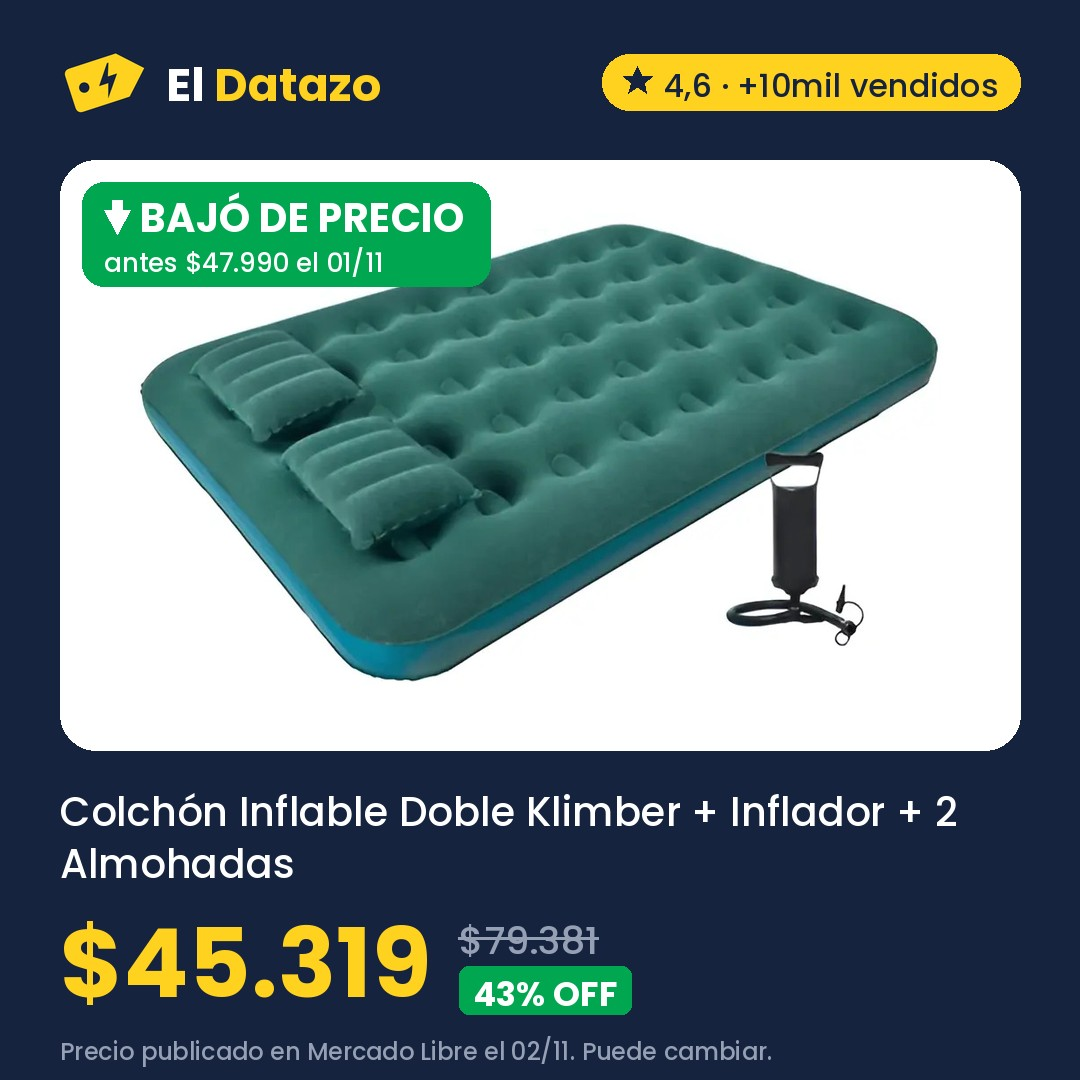
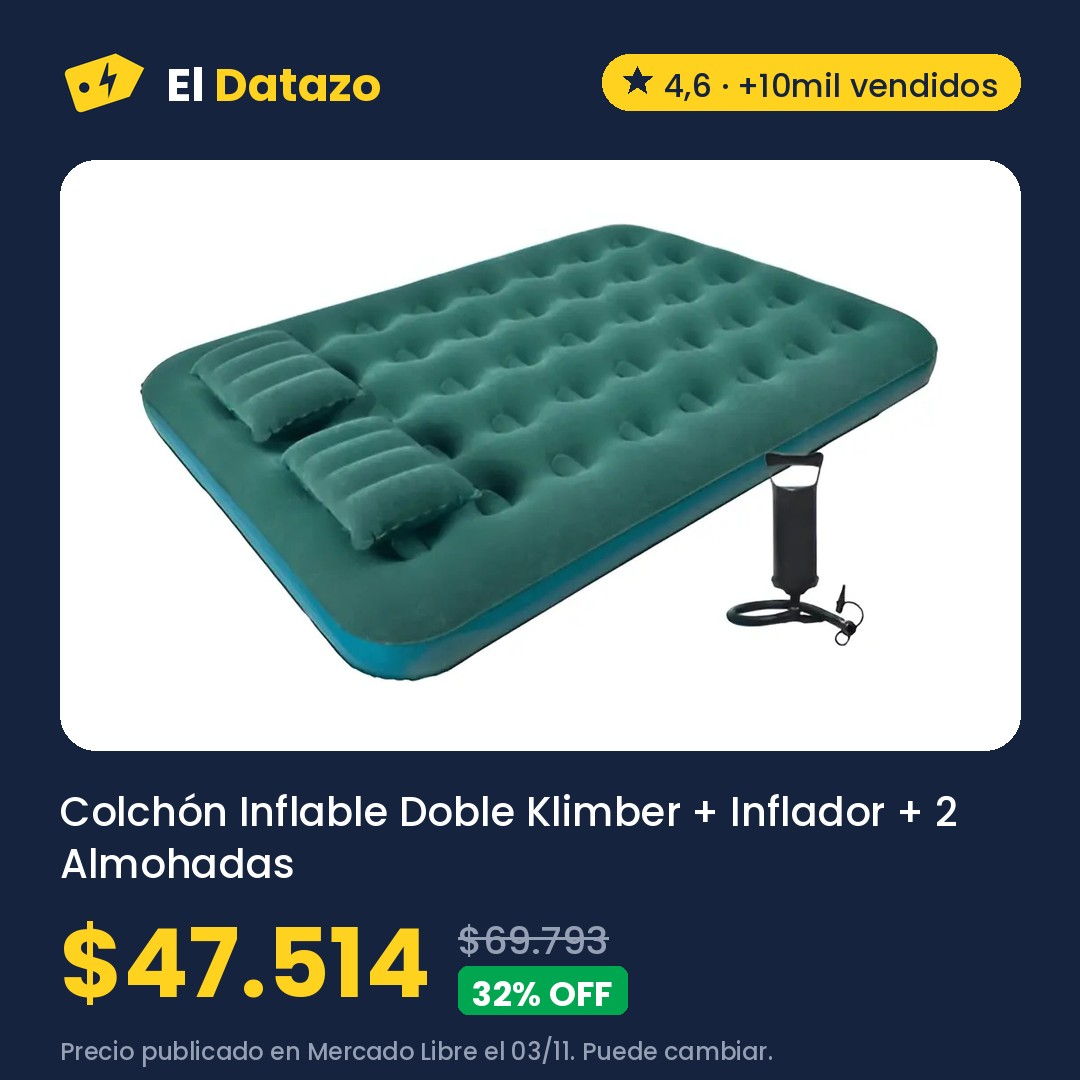
Ofertas 2026-11-03 23:31

diff --git a/index.html b/index.html
@@ -293,7 +293,7 @@ padding:3px 9px;border-radius:999px}
       <p class="hero-precio">$43.482</p>
       <p class="hero-antes"><s>$138.899</s> <span class="off">69% OFF</span></p>
       <p class="bajo pastilla"><b>⬇ Volvió y bajó</b> · Antes $46.899 el 02/11 · 7% menos</p>
-      <p class="nota">Precio del 02/11 en Mercado Libre, revisado hoy a las 16:31. Puede cambiar.</p>
+      <p class="nota">Precio del 02/11 en Mercado Libre, revisado hoy a las 20:31. Puede cambiar.</p>
       <a class="boton oscuro" href="https://meli.la/314C11i" rel="sponsored noopener" target="_blank"
          data-oferta="MLA47200126">Ver oferta en Mercado Libre</a>
       <a class="compartir" href="https://wa.me/?text=Mir%C3%A1%20este%20datazo%3A%20Extractor%20De%20Leche%20El%C3%A9ctrico%20Mawe%20By%20Gadnic%20RH-289%20150%20ml%209%20Niveles%20Pantalla%20LED%20Bater%C3%ADa%20Recargable%201200mAh%20a%20%2443.482%20https%3A//eldatazo.com.ar/%23MLA47200126" target="_blank" rel="noopener" data-estilo="texto"><svg viewBox="0 0 24 24" width="16" height="16" aria-hidden="true"><path d="M4 20l1.3-4A8 8 0 1 1 8 18.7L4 20z" fill="none" stroke="currentColor" stroke-width="2" stroke-linejoin="round"/></svg> Compartir por WhatsApp</a>
@@ -301,7 +301,7 @@ padding:3px 9px;border-radius:999px}
   </section>
       
   <section class="franja-bajo" aria-labelledby="bajo-titulo">
-    <h2 id="bajo-titulo">⬇ Bajaron de precio <span>23</span></h2>
+    <h2 id="bajo-titulo">⬇ Bajaron de precio <span>21</span></h2>
     <ul class="franja-lista">
         <li><a href="#MLA73800060"><img src="img/MLA73800060.jpg" alt="" loading="lazy">
           <span><b>Libro: Primero Yo, Después El Resto: 120 Sesiones De Verdad</b><span class="ahora">$17.000</span><s>$33.000</s> <span class="bajo">⬇ Bajó</span></span></a></li>
@@ -315,18 +315,18 @@ padding:3px 9px;border-radius:999px}
           <span><b>Extractor De Leche Eléctrico Mawe By Gadnic RH-289 150 ml 9 Niveles Pantalla LED Batería Recargable 1200mAh</b><span class="ahora">$43.482</span><s>$46.899</s> <span class="bajo">⬇ Volvió y bajó</span></span></a></li>
         <li><a href="#MLA23456165"><img src="img/MLA23456165.jpg" alt="" loading="lazy">
           <span><b>Silfab AL91 Almohadilla Eléctrica Espalda Large 41 X 28 Cm</b><span class="ahora">$46.932</span><s>$50.465</s> <span class="bajo">⬇ Volvió y bajó</span></span></a></li>
-        <li><a href="#MLA22764635"><img src="img/MLA22764635.jpg" alt="" loading="lazy">
-          <span><b>Colchón Inflable Doble Klimber + Inflador + 2 Almohadas</b><span class="ahora">$45.319</span><s>$47.990</s> <span class="bajo">⬇ Bajó</span></span></a></li>
         <li><a href="#MLA63186370"><img src="img/MLA63186370.jpg" alt="" loading="lazy">
           <span><b>Cámara Digital Kodak Charmera RK0601 Retro Compacta para Llavero y Video</b><span class="ahora">$54.454</span><s>$57.573</s> <span class="bajo">⬇ Bajó</span></span></a></li>
         <li><a href="#MLA43803009"><img src="img/MLA43803009.jpg" alt="" loading="lazy">
           <span><b>Mochila Viaje Carry On Avion Porta Notebook Waggs Negro Lisa</b><span class="ahora">$45.087</span><s>$46.799</s> <span class="bajo">⬇ Volvió y bajó</span></span></a></li>
-        <li><a href="#MLA69121337"><img src="img/MLA69121337.jpg" alt="" loading="lazy">
-          <span><b>Figuritas Panini X 25 Sobres World Cup 2026 Mundial 2026</b><span class="ahora">$40.593</span><s>$41.848</s> <span class="bajo">⬇ Volvió y bajó</span></span></a></li>
         <li><a href="#MLA26522167"><img src="img/MLA26522167.jpg" alt="" loading="lazy">
           <span><b>Equipo de Alta Frecuencia Gadnic LF60 Antienvejecimiento Antiacné Reafirmante Facial 4 Electrodos</b><span class="ahora">$42.441</span><s>$43.149</s> <span class="bajo">⬇ Volvió y bajó</span></span></a></li>
         <li><a href="#MLA16048275"><img src="img/MLA16048275.jpg" alt="" loading="lazy">
           <span><b>Eucerin Sun Oil Control Protector solar facial Toque Seco FPS 50 x 50 ml</b><span class="ahora">$35.318</span> <span class="bajo">⬇ Volvió</span></span></a></li>
+        <li><a href="#MLA22130330"><img src="img/MLA22130330.jpg" alt="" loading="lazy">
+          <span><b>Buclera de Pelo Gadnic B3000 Rizador 3 Tubos 25 mm 150W 180 210 C</b><span class="ahora">$44.463</span> <span class="bajo">⬇ Volvió</span></span></a></li>
+        <li><a href="#MLA28878536"><img src="img/MLA28878536.jpg" alt="" loading="lazy">
+          <span><b>BOTIQUÍN DE BAÑO TRENTO AMUBE 30x50 CM | Espejo y Repisa | Melamina Blanca</b><span class="ahora">$43.999</span> <span class="bajo">⬇ Volvió</span></span></a></li>
     </ul>
   </section>
       
@@ -346,28 +346,10 @@ padding:3px 9px;border-radius:999px}
             <option value="precio">Más baratas</option>
           </select></label>
       </div>
-      <div class="chips" role="group" aria-label="Rubro"><button type="button" data-filtro="" aria-pressed="true">Todo</button><button type="button" data-filtro="MLA1512" aria-pressed="false">Agro <span>3</span></button><button type="button" data-filtro="MLA1246" aria-pressed="false">Belleza y Cuidado Personal <span>3</span></button><button type="button" data-filtro="MLA1499" aria-pressed="false">Industrias y Oficinas <span>2</span></button><button type="button" data-filtro="MLA409431" aria-pressed="false">Salud y Equipamiento Médico <span>2</span></button><button type="button" data-filtro="MLA1144" aria-pressed="false">Consolas y Videojuegos <span>1</span></button><button type="button" data-filtro="MLA1500" aria-pressed="false">Construcción <span>1</span></button><button type="button" data-filtro="MLA1039" aria-pressed="false">Cámaras y Accesorios <span>1</span></button><button type="button" data-filtro="MLA1276" aria-pressed="false">Deportes y Fitness <span>1</span></button><button type="button" data-filtro="MLA1132" aria-pressed="false">Juegos y Juguetes <span>1</span></button><button type="button" data-filtro="MLA3025" aria-pressed="false">Libros, Revistas y Comics <span>1</span></button><button type="button" data-filtro="MLA1430" aria-pressed="false">Ropa y Accesorios <span>1</span></button></div>
-      <p class="contador" aria-live="polite"><span data-cuenta>17</span> ofertas</p>
+      <div class="chips" role="group" aria-label="Rubro"><button type="button" data-filtro="" aria-pressed="true">Todo</button><button type="button" data-filtro="MLA1512" aria-pressed="false">Agro <span>3</span></button><button type="button" data-filtro="MLA1246" aria-pressed="false">Belleza y Cuidado Personal <span>3</span></button><button type="button" data-filtro="MLA1499" aria-pressed="false">Industrias y Oficinas <span>2</span></button><button type="button" data-filtro="MLA409431" aria-pressed="false">Salud y Equipamiento Médico <span>2</span></button><button type="button" data-filtro="MLA1144" aria-pressed="false">Consolas y Videojuegos <span>1</span></button><button type="button" data-filtro="MLA1500" aria-pressed="false">Construcción <span>1</span></button><button type="button" data-filtro="MLA1039" aria-pressed="false">Cámaras y Accesorios <span>1</span></button><button type="button" data-filtro="MLA1276" aria-pressed="false">Deportes y Fitness <span>1</span></button><button type="button" data-filtro="MLA3025" aria-pressed="false">Libros, Revistas y Comics <span>1</span></button><button type="button" data-filtro="MLA1430" aria-pressed="false">Ropa y Accesorios <span>1</span></button></div>
+      <p class="contador" aria-live="polite"><span data-cuenta>16</span> ofertas</p>
     </div>
     <div class="grilla activas">
-      <article class="tarjeta destacada" id="MLA69121337" data-rubro="MLA1132" data-off="3" data-pub="2026-11-03" data-quedan="7" data-precio="40592" data-bajo="4" data-texto="figuritas panini x 25 sobres world cup 2026 mundial 2026">
-        <div class="tarjeta-foto">
-          <img src="img/MLA69121337.jpg" alt="Figuritas Panini X 25 Sobres World Cup 2026 Mundial 2026" loading="lazy" width="1080" height="1080">
-        </div>
-        <div class="cuerpo">
-          <div class="fila"><span class="sello baja">⬇ Volvió y bajó</span><span class="sello">Quedan 7 días</span><span class="rubro">Juegos y Juguetes</span></div>
-          <h3>Figuritas Panini X 25 Sobres World Cup 2026 Mundial 2026</h3>
-          <p class="precios "><span class="precio">$40.593</span><s class="antes">$41.848</s><span class="off">3% OFF</span></p>
-          <p class="bajo">Antes $41.848 el 30/10 · 3% menos</p>
-          <p class="nota">Precio de hoy a las 16:31 en Mercado Libre. Puede cambiar.</p>
-          <div class="acciones">
-            <a class="boton" href="https://meli.la/1qNpAcw" rel="sponsored noopener" target="_blank"
-               data-oferta="MLA69121337">Ver oferta</a>
-            <a class="compartir" href="https://wa.me/?text=Mir%C3%A1%20este%20datazo%3A%20Figuritas%20Panini%20X%2025%20Sobres%20World%20Cup%202026%20Mundial%202026%20a%20%2440.593%20https%3A//eldatazo.com.ar/%23MLA69121337" target="_blank" rel="noopener"
-               aria-label="Compartir por WhatsApp" title="Compartir por WhatsApp"><svg viewBox="0 0 24 24" width="16" height="16" aria-hidden="true"><path d="M4 20l1.3-4A8 8 0 1 1 8 18.7L4 20z" fill="none" stroke="currentColor" stroke-width="2" stroke-linejoin="round"/></svg></a>
-          </div>
-        </div>
-      </article>
       <article class="tarjeta destacada" id="MLA16048275" data-rubro="MLA1246" data-off="53" data-pub="2026-11-02" data-quedan="6" data-precio="35318" data-bajo="1" data-texto="eucerin sun oil control protector solar facial toque seco fps 50 x 50 ml">
         <div class="tarjeta-foto">
           <img src="img/MLA16048275.jpg" alt="Eucerin Sun Oil Control Protector solar facial Toque Seco FPS 50 x 50 ml" loading="lazy" width="1080" height="1080">
@@ -377,7 +359,7 @@ padding:3px 9px;border-radius:999px}
           <h3>Eucerin Sun Oil Control Protector solar facial Toque Seco FPS 50 x 50 ml</h3>
           <p class="precios "><span class="precio">$35.318</span><s class="antes">$75.301</s><span class="off">53% OFF</span></p>
           <p class="bajo">Había terminado y volvió al mismo precio</p>
-          <p class="nota">Precio del 02/11 en Mercado Libre, revisado hoy a las 16:31. Puede cambiar.</p>
+          <p class="nota">Precio del 02/11 en Mercado Libre, revisado hoy a las 20:31. Puede cambiar.</p>
           <div class="acciones">
             <a class="boton" href="https://meli.la/2Zpeewk" rel="sponsored noopener" target="_blank"
                data-oferta="MLA16048275">Ver oferta</a>
@@ -395,7 +377,7 @@ padding:3px 9px;border-radius:999px}
           <h3>Yelmo As-3240 Aspiradora Para Auto Recargable Usb Color Gris</h3>
           <p class="precios "><span class="precio">$32.899</span><s class="antes">$59.899</s><span class="off">45% OFF</span></p>
           <p class="bajo">Antes $36.567 el 02/11 · 10% menos</p>
-          <p class="nota">Precio de hoy a las 16:31 en Mercado Libre. Puede cambiar.</p>
+          <p class="nota">Precio de hoy a las 20:31 en Mercado Libre. Puede cambiar.</p>
           <div class="acciones">
             <a class="boton" href="https://meli.la/1BA5g6k" rel="sponsored noopener" target="_blank"
                data-oferta="MLA19719361">Ver oferta</a>
@@ -413,7 +395,7 @@ padding:3px 9px;border-radius:999px}
           <h3>Buclera de Pelo Gadnic B3000 Rizador 3 Tubos 25 mm 150W 180 210 C</h3>
           <p class="precios "><span class="precio">$44.463</span><s class="antes">$100.099</s><span class="off">56% OFF</span></p>
           <p class="bajo">Había terminado y volvió al mismo precio</p>
-          <p class="nota">Precio de hoy a las 16:31 en Mercado Libre. Puede cambiar.</p>
+          <p class="nota">Precio de hoy a las 20:31 en Mercado Libre. Puede cambiar.</p>
           <div class="acciones">
             <a class="boton" href="https://meli.la/1HyqnAD" rel="sponsored noopener" target="_blank"
                data-oferta="MLA22130330">Ver oferta</a>
@@ -431,7 +413,7 @@ padding:3px 9px;border-radius:999px}
           <h3>Crique Hidraulico Carrito Gato Para Autos 2 Tn Mejor Calidad</h3>
           <p class="precios "><span class="precio">$47.890</span><s class="antes">$58.014</s><span class="off">17% OFF</span></p>
           <p class="bajo">Antes $54.533 el 01/11 · 12% menos</p>
-          <p class="nota">Precio del 02/11 en Mercado Libre, revisado hoy a las 16:31. Puede cambiar.</p>
+          <p class="nota">Precio del 02/11 en Mercado Libre, revisado hoy a las 20:31. Puede cambiar.</p>
           <div class="acciones">
             <a class="boton" href="https://meli.la/2ZwvMNb" rel="sponsored noopener" target="_blank"
                data-oferta="MLA24729106">Ver oferta</a>
@@ -449,7 +431,7 @@ padding:3px 9px;border-radius:999px}
           <h3>Equipo de Alta Frecuencia Gadnic LF60 Antienvejecimiento Antiacné Reafirmante Facial 4 Electrodos</h3>
           <p class="precios "><span class="precio">$42.441</span><s class="antes">$90.999</s><span class="off">53% OFF</span></p>
           <p class="bajo">Antes $43.149 el 28/10 · 2% menos</p>
-          <p class="nota">Precio del 02/11 en Mercado Libre, revisado hoy a las 16:31. Puede cambiar.</p>
+          <p class="nota">Precio del 02/11 en Mercado Libre, revisado hoy a las 20:31. Puede cambiar.</p>
           <div class="acciones">
             <a class="boton" href="https://meli.la/1guS1ep" rel="sponsored noopener" target="_blank"
                data-oferta="MLA26522167">Ver oferta</a>
@@ -467,7 +449,7 @@ padding:3px 9px;border-radius:999px}
           <h3>BOTIQUÍN DE BAÑO TRENTO AMUBE 30x50 CM | Espejo y Repisa | Melamina Blanca</h3>
           <p class="precios "><span class="precio">$43.999</span><s class="antes">$45.394</s><span class="off">3% OFF</span></p>
           <p class="bajo">Había terminado y volvió al mismo precio</p>
-          <p class="nota">Precio de hoy a las 16:31 en Mercado Libre. Puede cambiar.</p>
+          <p class="nota">Precio de hoy a las 20:31 en Mercado Libre. Puede cambiar.</p>
           <div class="acciones">
             <a class="boton" href="https://meli.la/2PKMfSp" rel="sponsored noopener" target="_blank"
                data-oferta="MLA28878536">Ver oferta</a>
@@ -485,7 +467,7 @@ padding:3px 9px;border-radius:999px}
           <h3>Mochila Viaje Carry On Avion Porta Notebook Waggs Negro Lisa</h3>
           <p class="precios "><span class="precio">$45.087</span><s class="antes">$96.758</s><span class="off">53% OFF</span></p>
           <p class="bajo">Antes $46.799 el 28/10 · 4% menos</p>
-          <p class="nota">Precio del 02/11 en Mercado Libre, revisado hoy a las 16:31. Puede cambiar.</p>
+          <p class="nota">Precio del 02/11 en Mercado Libre, revisado hoy a las 20:31. Puede cambiar.</p>
           <div class="acciones">
             <a class="boton" href="https://meli.la/1Y9GX65" rel="sponsored noopener" target="_blank"
                data-oferta="MLA43803009">Ver oferta</a>
@@ -503,7 +485,7 @@ padding:3px 9px;border-radius:999px}
           <h3>Libro: Primero Yo, Después El Resto: 120 Sesiones De Verdad</h3>
           <p class="precios "><span class="precio">$17.000</span></p>
           <p class="bajo">Antes $33.000 el 01/11 · 48% menos</p>
-          <p class="nota">Precio del 02/11 en Mercado Libre, revisado hoy a las 16:31. Puede cambiar.</p>
+          <p class="nota">Precio del 02/11 en Mercado Libre, revisado hoy a las 20:31. Puede cambiar.</p>
           <div class="acciones">
             <a class="boton" href="https://meli.la/2DQxPNs" rel="sponsored noopener" target="_blank"
                data-oferta="MLA73800060">Ver oferta</a>
@@ -521,7 +503,7 @@ padding:3px 9px;border-radius:999px}
           <h3>God Of War Ragnarok Ps4 Juego Físico Nuevo Sony Original</h3>
           <p class="precios "><span class="precio">$69.999</span><s class="antes">$149.999</s><span class="off">53% OFF</span></p>
           <p class="bajo">Antes $75.999 el 01/11 · 8% menos</p>
-          <p class="nota">Precio de hoy a las 16:31 en Mercado Libre. Puede cambiar.</p>
+          <p class="nota">Precio de hoy a las 20:31 en Mercado Libre. Puede cambiar.</p>
           <div class="acciones">
             <a class="boton" href="https://meli.la/217QPCu" rel="sponsored noopener" target="_blank"
                data-oferta="MLA19472094">Ver oferta</a>
@@ -539,7 +521,7 @@ padding:3px 9px;border-radius:999px}
           <h3>Silfab AL91 Almohadilla Eléctrica Espalda Large 41 X 28 Cm</h3>
           <p class="precios "><span class="precio">$46.932</span><s class="antes">$52.990</s><span class="off">11% OFF</span></p>
           <p class="bajo">Antes $50.465 el 24/10 · 7% menos</p>
-          <p class="nota">Precio del 02/11 en Mercado Libre, revisado hoy a las 16:31. Puede cambiar.</p>
+          <p class="nota">Precio del 02/11 en Mercado Libre, revisado hoy a las 20:31. Puede cambiar.</p>
           <div class="acciones">
             <a class="boton" href="https://meli.la/2cQdCWW" rel="sponsored noopener" target="_blank"
                data-oferta="MLA23456165">Ver oferta</a>
@@ -548,20 +530,20 @@ padding:3px 9px;border-radius:999px}
           </div>
         </div>
       </article>
-      <article class="tarjeta destacada" id="MLA26204453" data-rubro="MLA1512" data-off="16" data-pub="2026-11-01" data-quedan="5" data-precio="71982" data-bajo="1" data-texto="bomba desagote agua sucia vasser de 400ps 400 watts">
+      <article class="tarjeta destacada" id="MLA26204453" data-rubro="MLA1512" data-off="19" data-pub="2026-11-01" data-quedan="5" data-precio="68905" data-bajo="1" data-texto="bomba desagote agua sucia vasser de 400ps 400 watts">
         <div class="tarjeta-foto">
           <img src="img/MLA26204453.jpg" alt="Bomba Desagote Agua Sucia Vasser De 400ps 400 Watts" loading="lazy" width="1080" height="1080">
         </div>
         <div class="cuerpo">
           <div class="fila"><span class="sello baja">⬇ Volvió</span><span class="sello">Quedan 5 días</span><span class="rubro">Agro</span></div>
           <h3>Bomba Desagote Agua Sucia Vasser De 400ps 400 Watts</h3>
-          <p class="precios "><span class="precio">$71.982</span><s class="antes">$85.441</s><span class="off">16% OFF</span></p>
+          <p class="precios "><span class="precio">$68.905</span><s class="antes">$85.441</s><span class="off">19% OFF</span></p>
           <p class="bajo">Había terminado y volvió al mismo precio</p>
-          <p class="nota">Precio de hoy a las 16:31 en Mercado Libre. Puede cambiar.</p>
+          <p class="nota">Precio de hoy a las 20:31 en Mercado Libre. Puede cambiar.</p>
           <div class="acciones">
             <a class="boton" href="https://meli.la/19GEcXU" rel="sponsored noopener" target="_blank"
                data-oferta="MLA26204453">Ver oferta</a>
-            <a class="compartir" href="https://wa.me/?text=Mir%C3%A1%20este%20datazo%3A%20Bomba%20Desagote%20Agua%20Sucia%20Vasser%20De%20400ps%20400%20Watts%20a%20%2471.982%20https%3A//eldatazo.com.ar/%23MLA26204453" target="_blank" rel="noopener"
+            <a class="compartir" href="https://wa.me/?text=Mir%C3%A1%20este%20datazo%3A%20Bomba%20Desagote%20Agua%20Sucia%20Vasser%20De%20400ps%20400%20Watts%20a%20%2468.905%20https%3A//eldatazo.com.ar/%23MLA26204453" target="_blank" rel="noopener"
                aria-label="Compartir por WhatsApp" title="Compartir por WhatsApp"><svg viewBox="0 0 24 24" width="16" height="16" aria-hidden="true"><path d="M4 20l1.3-4A8 8 0 1 1 8 18.7L4 20z" fill="none" stroke="currentColor" stroke-width="2" stroke-linejoin="round"/></svg></a>
           </div>
         </div>
@@ -575,7 +557,7 @@ padding:3px 9px;border-radius:999px}
           <h3>Taladro Percutor Total Mandril 13mm 710w Tg107136 Color Turquesa Frecuencia 50 Hz x 60 Hz</h3>
           <p class="precios "><span class="precio">$70.220</span></p>
           
-          <p class="nota">Precio del 01/11 en Mercado Libre, revisado hoy a las 16:31. Puede cambiar.</p>
+          <p class="nota">Precio del 01/11 en Mercado Libre, revisado hoy a las 20:31. Puede cambiar.</p>
           <div class="acciones">
             <a class="boton" href="https://meli.la/2dUz2s5" rel="sponsored noopener" target="_blank"
                data-oferta="MLA29532448">Ver oferta</a>
@@ -593,7 +575,7 @@ padding:3px 9px;border-radius:999px}
           <h3>Cámara Digital Kodak Charmera RK0601 Retro Compacta para Llavero y Video</h3>
           <p class="precios "><span class="precio">$54.454</span><s class="antes">$80.000</s><span class="off">32% OFF</span></p>
           <p class="bajo">Antes $57.573 el 01/11 · 5% menos</p>
-          <p class="nota">Precio del 02/11 en Mercado Libre, revisado hoy a las 16:31. Puede cambiar.</p>
+          <p class="nota">Precio del 02/11 en Mercado Libre, revisado hoy a las 20:31. Puede cambiar.</p>
           <div class="acciones">
             <a class="boton" href="https://meli.la/2QAJKif" rel="sponsored noopener" target="_blank"
                data-oferta="MLA63186370">Ver oferta</a>
@@ -611,7 +593,7 @@ padding:3px 9px;border-radius:999px}
           <h3>Tensiometro Digital Brazo Bluetooth Presion Arterial Aparato Para Tomar Presion Batería Recargable Usb Medidor Automatico Femmto KF-DT65S</h3>
           <p class="precios "><span class="precio">$29.301</span><s class="antes">$50.000</s><span class="off">41% OFF</span></p>
           <p class="bajo">Había terminado y volvió al mismo precio</p>
-          <p class="nota">Precio de hoy a las 16:31 en Mercado Libre. Puede cambiar.</p>
+          <p class="nota">Precio de hoy a las 20:31 en Mercado Libre. Puede cambiar.</p>
           <div class="acciones">
             <a class="boton" href="https://meli.la/2V53bXq" rel="sponsored noopener" target="_blank"
                data-oferta="MLA76118504">Ver oferta</a>
@@ -620,20 +602,20 @@ padding:3px 9px;border-radius:999px}
           </div>
         </div>
       </article>
-      <article class="tarjeta destacada" id="MLA22764635" data-rubro="MLA1276" data-off="43" data-pub="2026-10-26" data-quedan="6" data-precio="45319" data-bajo="7" data-texto="colchón inflable doble klimber + inflador + 2 almohadas">
+      <article class="tarjeta" id="MLA22764635" data-rubro="MLA1276" data-off="32" data-pub="2026-10-26" data-quedan="6" data-precio="47514" data-bajo="0" data-texto="colchón inflable doble klimber + inflador + 2 almohadas">
         <div class="tarjeta-foto">
           <img src="img/MLA22764635.jpg" alt="Colchón Inflable Doble Klimber + Inflador + 2 Almohadas" loading="lazy" width="1080" height="1080">
         </div>
         <div class="cuerpo">
-          <div class="fila"><span class="sello baja">⬇ Bajó</span><span class="sello">Quedan 6 días</span><span class="rubro">Deportes y Fitness</span></div>
+          <div class="fila"><span class="sello">Quedan 6 días</span><span class="rubro">Deportes y Fitness</span></div>
           <h3>Colchón Inflable Doble Klimber + Inflador + 2 Almohadas</h3>
-          <p class="precios "><span class="precio">$45.319</span><s class="antes">$79.381</s><span class="off">43% OFF</span></p>
-          <p class="bajo">Antes $47.990 el 01/11 · 6% menos</p>
-          <p class="nota">Precio del 02/11 en Mercado Libre, revisado hoy a las 16:31. Puede cambiar.</p>
+          <p class="precios "><span class="precio">$47.514</span><s class="antes">$69.793</s><span class="off">32% OFF</span></p>
+          
+          <p class="nota">Precio de hoy a las 20:31 en Mercado Libre. Puede cambiar.</p>
           <div class="acciones">
             <a class="boton" href="https://meli.la/19eMhmv" rel="sponsored noopener" target="_blank"
                data-oferta="MLA22764635">Ver oferta</a>
-            <a class="compartir" href="https://wa.me/?text=Mir%C3%A1%20este%20datazo%3A%20Colch%C3%B3n%20Inflable%20Doble%20Klimber%20%2B%20Inflador%20%2B%202%20Almohadas%20a%20%2445.319%20https%3A//eldatazo.com.ar/%23MLA22764635" target="_blank" rel="noopener"
+            <a class="compartir" href="https://wa.me/?text=Mir%C3%A1%20este%20datazo%3A%20Colch%C3%B3n%20Inflable%20Doble%20Klimber%20%2B%20Inflador%20%2B%202%20Almohadas%20a%20%2447.514%20https%3A//eldatazo.com.ar/%23MLA22764635" target="_blank" rel="noopener"
                aria-label="Compartir por WhatsApp" title="Compartir por WhatsApp"><svg viewBox="0 0 24 24" width="16" height="16" aria-hidden="true"><path d="M4 20l1.3-4A8 8 0 1 1 8 18.7L4 20z" fill="none" stroke="currentColor" stroke-width="2" stroke-linejoin="round"/></svg></a>
           </div>
         </div>
@@ -647,7 +629,7 @@ padding:3px 9px;border-radius:999px}
           <h3>Rotuladora Portátil Niimbot Etiquetadora Manual Impresora Color Blanco D110</h3>
           <p class="precios "><span class="precio">$40.596</span><s class="antes">$58.900</s><span class="off">31% OFF</span></p>
           
-          <p class="nota">Precio del 02/11 en Mercado Libre, revisado hoy a las 16:31. Puede cambiar.</p>
+          <p class="nota">Precio del 02/11 en Mercado Libre, revisado hoy a las 20:31. Puede cambiar.</p>
           <div class="acciones">
             <a class="boton" href="https://meli.la/1czSFp6" rel="sponsored noopener" target="_blank"
                data-oferta="MLA45260672">Ver oferta</a>
@@ -916,7 +898,7 @@ padding:3px 9px;border-radius:999px}
     </div>
   </section>
     <div class="envoltura">
-      <details class="terminadas"><summary>Terminadas · ofertas que ya no están vigentes (26)</summary>
+      <details class="terminadas"><summary>Terminadas · ofertas que ya no están vigentes (27)</summary>
 <div class="grilla">
       <article class="tarjeta terminada" id="MLA24496709">
         <div class="tarjeta-foto">
@@ -938,6 +920,17 @@ padding:3px 9px;border-radius:999px}
           <p class="nota">Terminó el 03/11. El link sigue abierto: mirá el precio de hoy.</p>
           <a class="boton suave" href="https://meli.la/1KpJLVC" rel="sponsored noopener" target="_blank"
              data-oferta="MLA37255352">Ver precio de hoy</a>
+        </div>
+      </article>
+      <article class="tarjeta terminada" id="MLA69121337">
+        <div class="tarjeta-foto">
+          <img src="img/MLA69121337_terminada.jpg" alt="Figuritas Panini X 25 Sobres World Cup 2026 Mundial 2026" loading="lazy" width="1080" height="1080">
+        </div>
+        <div class="cuerpo">
+          <h3>Figuritas Panini X 25 Sobres World Cup 2026 Mundial 2026</h3>
+          <p class="nota">Terminó el 03/11. El link sigue abierto: mirá el precio de hoy.</p>
+          <a class="boton suave" href="https://meli.la/1qNpAcw" rel="sponsored noopener" target="_blank"
+             data-oferta="MLA69121337">Ver precio de hoy</a>
         </div>
       </article>
       <article class="tarjeta terminada" id="MLA19576694">
@@ -1212,7 +1205,7 @@ padding:3px 9px;border-radius:999px}
       <nav class="redes" aria-label="Redes de El Datazo"><a class="red" href="https://www.instagram.com/eldatazo.arg/" target="_blank" rel="noopener"><svg viewBox="0 0 24 24" width="18" height="18" aria-hidden="true"><rect x="3" y="3" width="18" height="18" rx="5" fill="none" stroke="currentColor" stroke-width="2"/><circle cx="12" cy="12" r="4" fill="none" stroke="currentColor" stroke-width="2"/><circle cx="17.5" cy="6.5" r="1.3" fill="currentColor"/></svg> Instagram</a><a class="red" href="https://www.facebook.com/profile.php?id=61595441168911" target="_blank" rel="noopener"><svg viewBox="0 0 24 24" width="18" height="18" aria-hidden="true"><path d="M14 8h3V4h-3a4 4 0 0 0-4 4v2H7v4h3v8h4v-8h3l1-4h-4V8z" fill="currentColor"/></svg> Facebook</a><a class="red" href="https://t.me/eldatazo_ofertas" target="_blank" rel="noopener"><svg viewBox="0 0 24 24" width="18" height="18" aria-hidden="true"><path d="M21 4 3 11l5 2 2 6 3-4 5 4 3-15zM9 13l9-6-7 8" fill="none" stroke="currentColor" stroke-width="1.8" stroke-linejoin="round"/></svg> Telegram</a></nav>
       <p>Los links son de afiliado de Mercado Libre: si comprás, El Datazo puede recibir una comisión, sin que cambie
       tu precio. Los precios son los publicados en Mercado Libre el día indicado y pueden cambiar.</p>
-      <p>Actualizado el 03/11/2026 16:31 (hora argentina) · <a href="privacidad/">Privacidad</a></p>
+      <p>Actualizado el 03/11/2026 20:31 (hora argentina) · <a href="privacidad/">Privacidad</a></p>
     </div>
   </footer>
   
